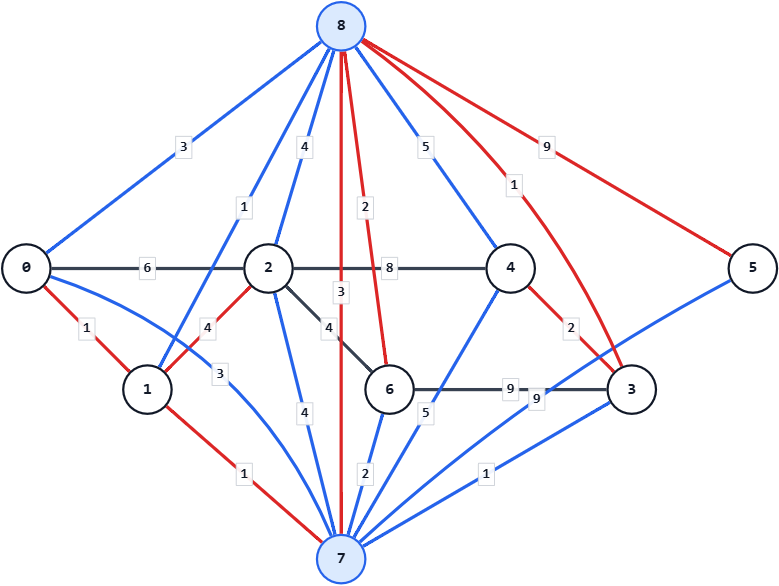
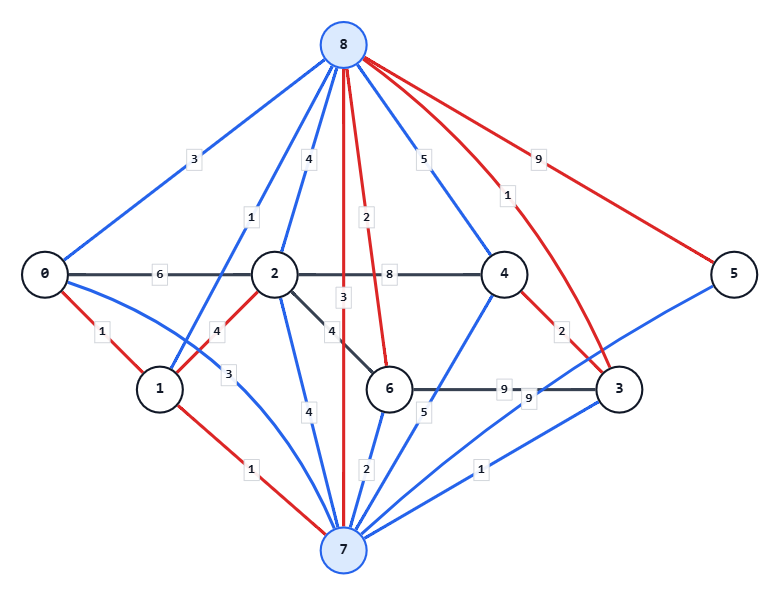
画像に余白をつけた

Changed region(s): [[0.0, 0.0, 1.0, 1.0], [0.5546, 0.2765, 0.5854, 0.3379]]

diff --git a/docs/explanations/abc463-e.html b/docs/explanations/abc463-e.html
@@ -84,8 +84,9 @@ graph[8]: {(3,0), (1,1), (4,2), (1,3), (5,4), (9,5), (2,6)}</code></pre>
 <pre><code>result: {0, 1, 5, 6, 8, 14, 7, 2, 5}</code></pre>
 <p>答えとして、都市 $1$ から都市 $6$ までの、都市 $0$ からの最短距離 <code>1 5 6 8 14 7</code> を出力する。</p>
 <p><img src="abc463/e1.png" alt="入力例1のグラフ"><br>
-青い部分はワープ経路。<br>
-赤い部分はDijkstra法による最短経路。<br>
+灰色の辺は通常の道路。<br>
+青い部分はワープ経路（一部、赤で色が上書きされている）。<br>
+赤い部分はDijkstra法で求めた各都市への最短経路。<br>
 $7$→$8$ は実際はこの向きの有向辺。<br>
 頂点 $7$ へ向かう辺は、$7$→$8$ を除き、実際は $7$ への有向辺。<br>
 頂点 $8$ から出る辺は、$7$→$8$ を除き、実際は $8$ からの有向辺。</p>

diff --git a/docs/explanations/abc463-f.html b/docs/explanations/abc463-f.html
@@ -89,7 +89,7 @@ window.MathJax = {
 \left(\frac{1}{2}\right)^{\mathrm{ts}+\mathrm{to}+1}<br>
 $$</p>
 <p>ただし、<code>tt=0</code> のとき、<code>ptt</code> を使う選手はいないので、計算を省略して <code>ptt=0</code> とする。<br>
-以下の確率も同様。</p>
+以下の確率も同様に、該当者がなければスキップし、ゼロ除算の発生を防ぐものとする。</p>
 <h3><code>pts</code></h3>
 <p><code>pts</code> は、<code>ts</code> の <code>t</code> 側の選手の優勝確率である。</p>
 <p>まず、自分が最後の試合に勝つ場合を考える。<br>
@@ -188,7 +188,7 @@ $$</p>
 そして、<code>tt=0</code> であり、<code>ts</code> と <code>to</code> の試合ではすべて <code>t</code> 側が負ける必要がある。</p>
 <p><code>so</code> の試合のうち、<code>s</code> 側が勝つ試合数を $i$ 個とする。<br>
 ただし、自分はその $i$ 人に含まれる必要がある。<br>
-そのため、試合の組は、残りの <code>ts+to-1</code> 個の試合から $i-1$ 個を選ぶことになる。</p>
+そのため、試合の組は、残りの <code>so-1</code> 個の試合から $i-1$ 個を選ぶことになる。</p>
 <p>このとき、勝利数 $W$ の優勝候補者は $2\mathrm{ts}+\mathrm{ss}+\mathrm{to}+i$ 人である。<br>
 よって、<code>pso</code> は次のように計算できる。</p>
 <p>$$<br>